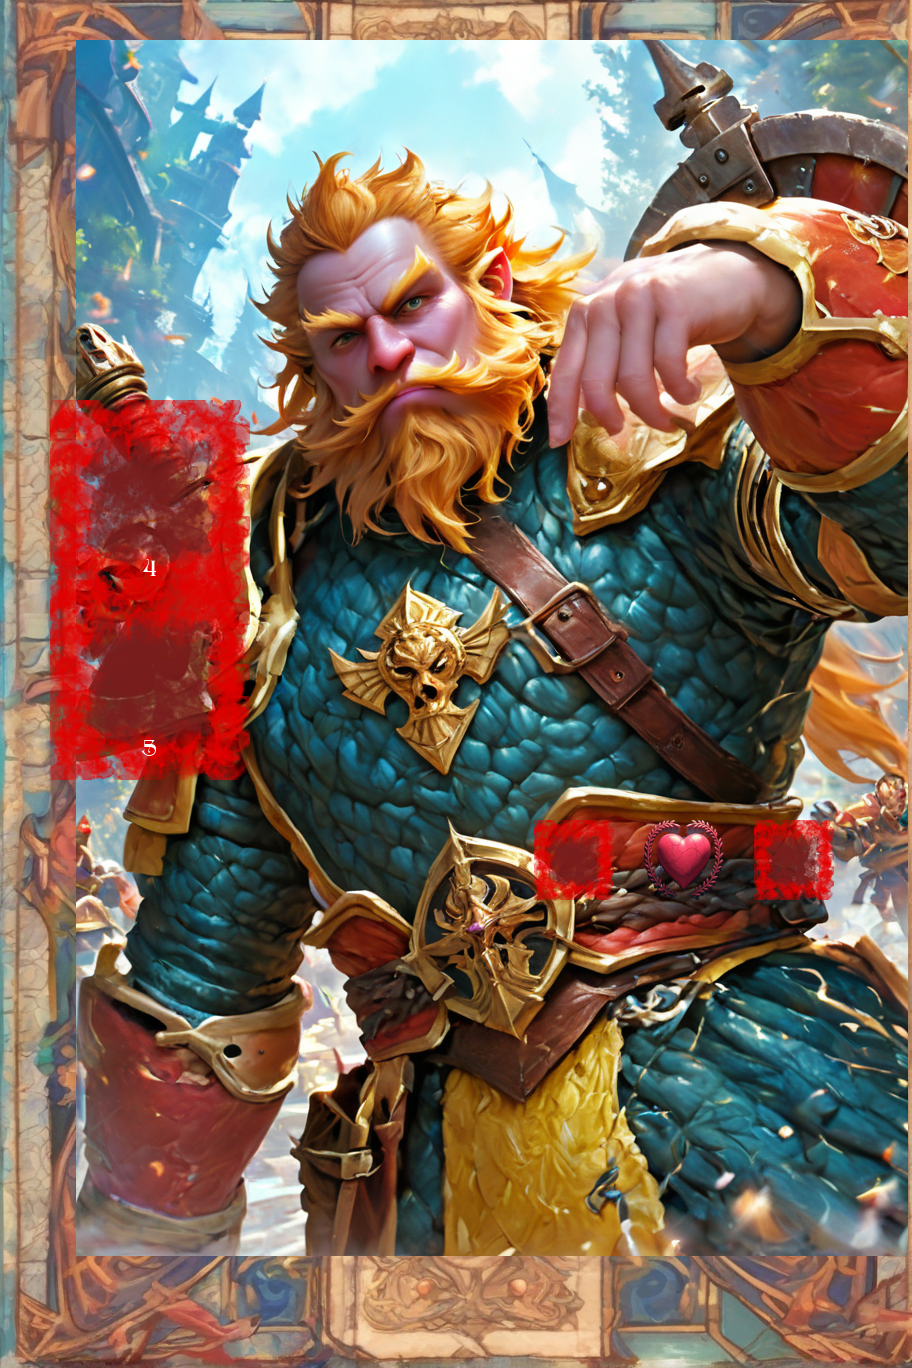
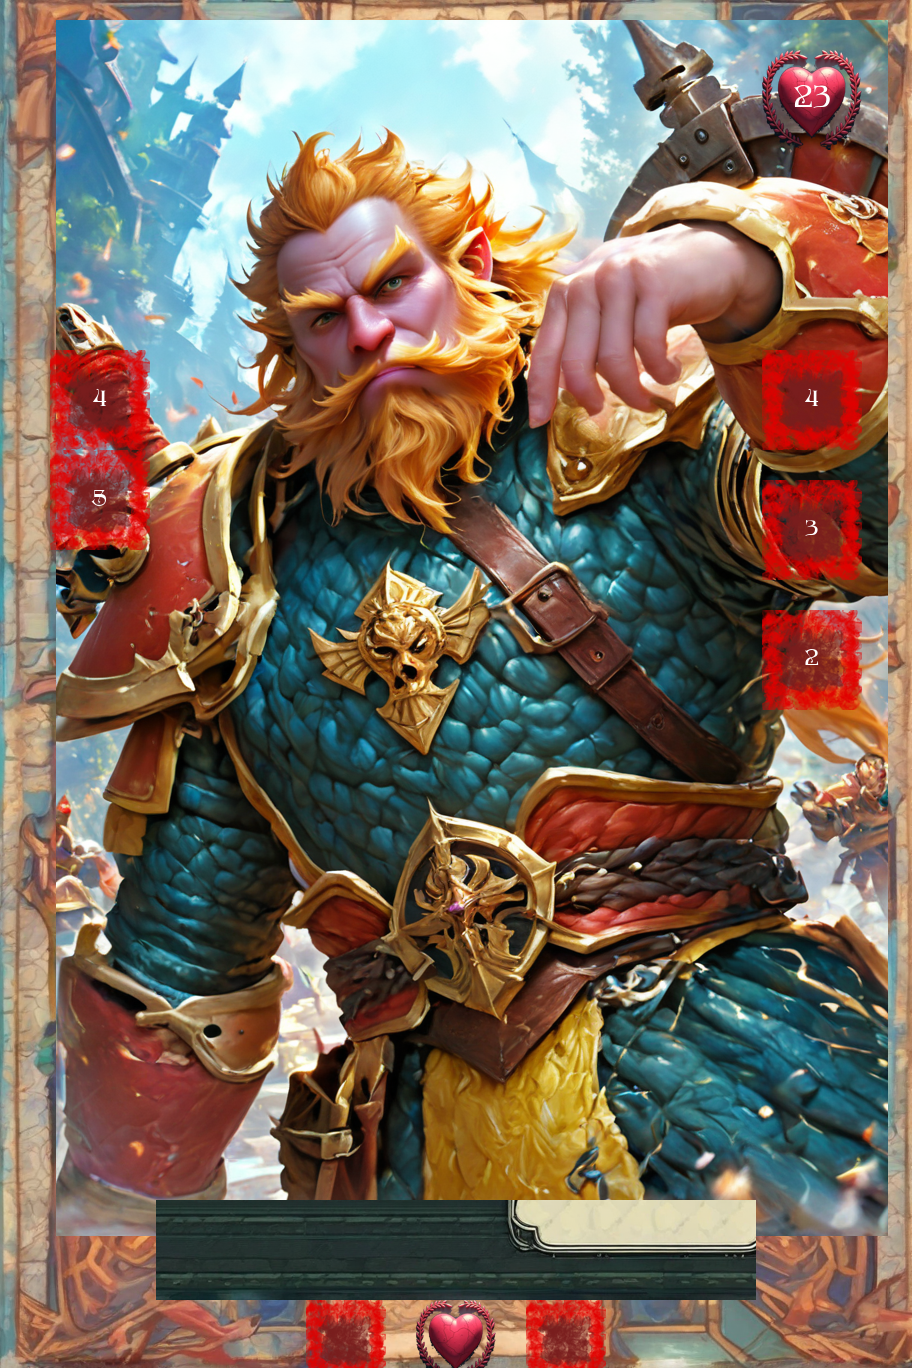
Functional

diff --git a/main.py b/main.py
@@ -5,39 +5,39 @@ import logging
 
 class RPGCardGenerator:
     def __init__(self):
-        self.card_size = (1368, 912)
-        self.character_size = (1216, 832)
+        self.card_size = (912, 1368)  # Corrected: width, height
+        self.character_size = (800, 700) # Adjusted Character Size
         
         self.ui_config = {
             'weapons': {
-                'positions': [(50, 400), (50, 580)],
-                'size': (200, 200),
-                'label_offset': (100, 170)
+                'positions': [(50, 350), (50, 450)],  # Adjusted positions, touching
+                'size': (100, 100),
+                'label_offset': (50, 50)  # Center text within the square
             },
             'armors': {
-                'positions': [(1120, 400), (1120, 540), (1120, 680)],
-                'size': (150, 150),
-                'label_offset': (75, 125)
+                'positions': [(762, 350), (762, 480), (762, 610)],  # Adjusted positions
+                'size': (100, 100),
+                'label_offset': (50, 50)  # Center text within the square
             },
             'health': {
-                'position': (1250, 50),
+                'position': (762, 50),  # Adjusted Position
                 'size': (100, 100),
                 'font_size': 32
             },
             'name_plate': {
-                'size': (800, 120),
-                'position': (284, 740)
+                'size': (600, 100),
+                'position': ((912 - 600) // 2, 1200)  # Centered horizontally, adjusted Y
             },
             'name': {
-                'position': (684, 780),
-                'font_size': 48,
+                'position': (912 // 2, 1240),  # Centered horizontally, adjusted Y
+                'font_size': 60,
                 'max_length': 24
             },
             'languages': {
                 'icon_size': (80, 80),
                 'max_count': 4,
                 'margin': 30,
-                'position_y': 820
+                'position_y': 1300 # Adjusted Y
             }
         }
 
@@ -92,7 +92,7 @@ class RPGCardGenerator:
         except Exception as e:
             self.logger.exception(f"An unexpected error occurred while processing {csv_path}")
 
-    def _create_card(self, data):
+    def _create_card(self,  data):
         """Creates the character card image."""
         try:
             background_path = os.path.join(self.assets_path['backgrounds'], f"{data['background']}.png")
@@ -118,15 +118,15 @@ class RPGCardGenerator:
             character = Image.open(character_path).convert('RGBA')
         except FileNotFoundError:
             self.logger.error(f"Character image not found: {character_img}")
-            return card  # Or handle the error differently
+            return card
         except Exception as e:
             self.logger.error(f"Error opening character image: {character_img}: {e}")
             return card
 
-
+        # Adjust vertical position to move the character up and give more space at the bottom
         character_pos = (
             (self.card_size[0] - self.character_size[0]) // 2,
-            40
+            20 # Adjusted value, smaller = higher
         )
         card.alpha_composite(character, character_pos)
         return card
@@ -171,7 +171,7 @@ class RPGCardGenerator:
         """Adds the health icon and value to the card."""
         try:
             health_icon_path = os.path.join(self.assets_path['ui'], 'health_icon.png')
-            health_icon = Image.open(health_icon_path)
+            health_icon = Image.open(health_icon_path).convert("RGBA")
             health_icon = health_icon.resize(self.ui_config['health']['size'])
             card.alpha_composite(health_icon, self.ui_config['health']['position'])
 
@@ -194,7 +194,7 @@ class RPGCardGenerator:
         """Adds a weapon image and its value to the card."""
         try:
             weapon_path = os.path.join(self.assets_path['weapons'], f"{img_name}.png")
-            weapon_img = Image.open(weapon_path)
+            weapon_img = Image.open(weapon_path).convert("RGBA") # Ensure RGBA
             weapon_img = weapon_img.resize(self.ui_config['weapons']['size'])
 
             draw = ImageDraw.Draw(weapon_img)
@@ -202,12 +202,21 @@ class RPGCardGenerator:
                 self.ui_config['weapons']['label_offset'][0],
                 self.ui_config['weapons']['label_offset'][1]
             )
+
+            # Load a bold font (or use the existing one if a bold version isn't available)
+            bold_font_path = os.path.join(self.assets_path['fonts'], 'PressJobs-Bold.ttf')  # Example
+            try:
+                bold_font = ImageFont.truetype(bold_font_path, size=24)  # Same size as before
+            except IOError:
+                self.logger.warning("Bold font not found, using regular font.")
+                bold_font = self.font  # Use the regular font as a fallback
+
             draw.text(
                 text_position,
                 str(value),
-                font=self.font,
+                font=bold_font,
                 fill='white',
-                anchor='mm'
+                anchor='mm'  # Center the text
             )
 
             card.alpha_composite(weapon_img, position)
@@ -221,16 +230,26 @@ class RPGCardGenerator:
         """Adds an armor image and its value to the card."""
         try:
             armor_path = os.path.join(self.assets_path['armors'], f"{img_name}.png")
-            armor_img = Image.open(armor_path)
+            armor_img = Image.open(armor_path).convert("RGBA") # Ensure RGBA
             armor_img = armor_img.resize(self.ui_config['armors']['size'])
 
             draw = ImageDraw.Draw(armor_img)
+            text_position = self.ui_config['armors']['label_offset']
+
+            # Load a bold font (or use the existing one if a bold version isn't available)
+            bold_font_path = os.path.join(self.assets_path['fonts'], 'PressJobs-Bold.ttf')  # Example
+            try:
+                bold_font = ImageFont.truetype(bold_font_path, size=24)  # Same size as before
+            except IOError:
+                self.logger.warning("Bold font not found, using regular font.")
+                bold_font = self.font  # Use the regular font as a fallback
+
             draw.text(
-                self.ui_config['armors']['label_offset'],
+                text_position,
                 str(value),
-                font=self.font,
+                font=bold_font,
                 fill='white',
-                anchor='mm'
+                anchor='mm'  # Center the text
             )
 
             card.alpha_composite(armor_img, position)
@@ -244,18 +263,28 @@ class RPGCardGenerator:
         """Adds the name plate and character's name to the card."""
         try:
             plate_path = os.path.join(self.assets_path['ui'], 'name_plate.png')
-            plate = Image.open(plate_path)
+            plate = Image.open(plate_path).convert("RGBA")  # Ensure RGBA
             plate = plate.resize(self.ui_config['name_plate']['size'])
             card.alpha_composite(plate, self.ui_config['name_plate']['position'])
 
             draw = ImageDraw.Draw(card)
-            draw.text(
-                self.ui_config['name']['position'],
-                data['name'],
-                font=self.font.font_variant(size=self.ui_config['name']['font_size']),
-                fill='white',
-                anchor='mm'
-            )
+            text = data['name']
+            font = self.font.font_variant(size=self.ui_config['name']['font_size'])
+            text_width, text_height = draw.textsize(text, font=font) # Removed deprecated call
+
+            # Stroke effect (crude, but functional)
+            stroke_color = 'black'  # Or another suitable color
+            x, y = self.ui_config['name']['position']
+            offset = 2  # Stroke width
+
+            # Draw the text multiple times with an offset to create the stroke effect
+            for i in range(-offset, offset + 1):
+                for j in range(-offset, offset + 1):
+                    draw.text((x + i, y + j), text, font=font, fill=stroke_color, anchor='mm')
+
+            # Draw the main text in white
+            draw.text(self.ui_config['name']['position'], text, font=font, fill='white', anchor='mm')
+
         except FileNotFoundError:
             self.logger.error("Name plate image not found.")
         except Exception as e:
@@ -277,7 +306,7 @@ class RPGCardGenerator:
         for i in range(num_langs):
             try:
                 lang_img_path = os.path.join(self.assets_path['languages'], f"{languages[i]}.png")
-                lang_img = Image.open(lang_img_path).resize(self.ui_config['languages']['icon_size'])
+                lang_img = Image.open(lang_img_path).convert("RGBA").resize(self.ui_config['languages']['icon_size'])
                 x = start_x + i * (self.ui_config['languages']['icon_size'][0] + self.ui_config['languages']['margin'])
                 position = (x, self.ui_config['languages']['position_y'])
                 card.alpha_composite(lang_img, position)
